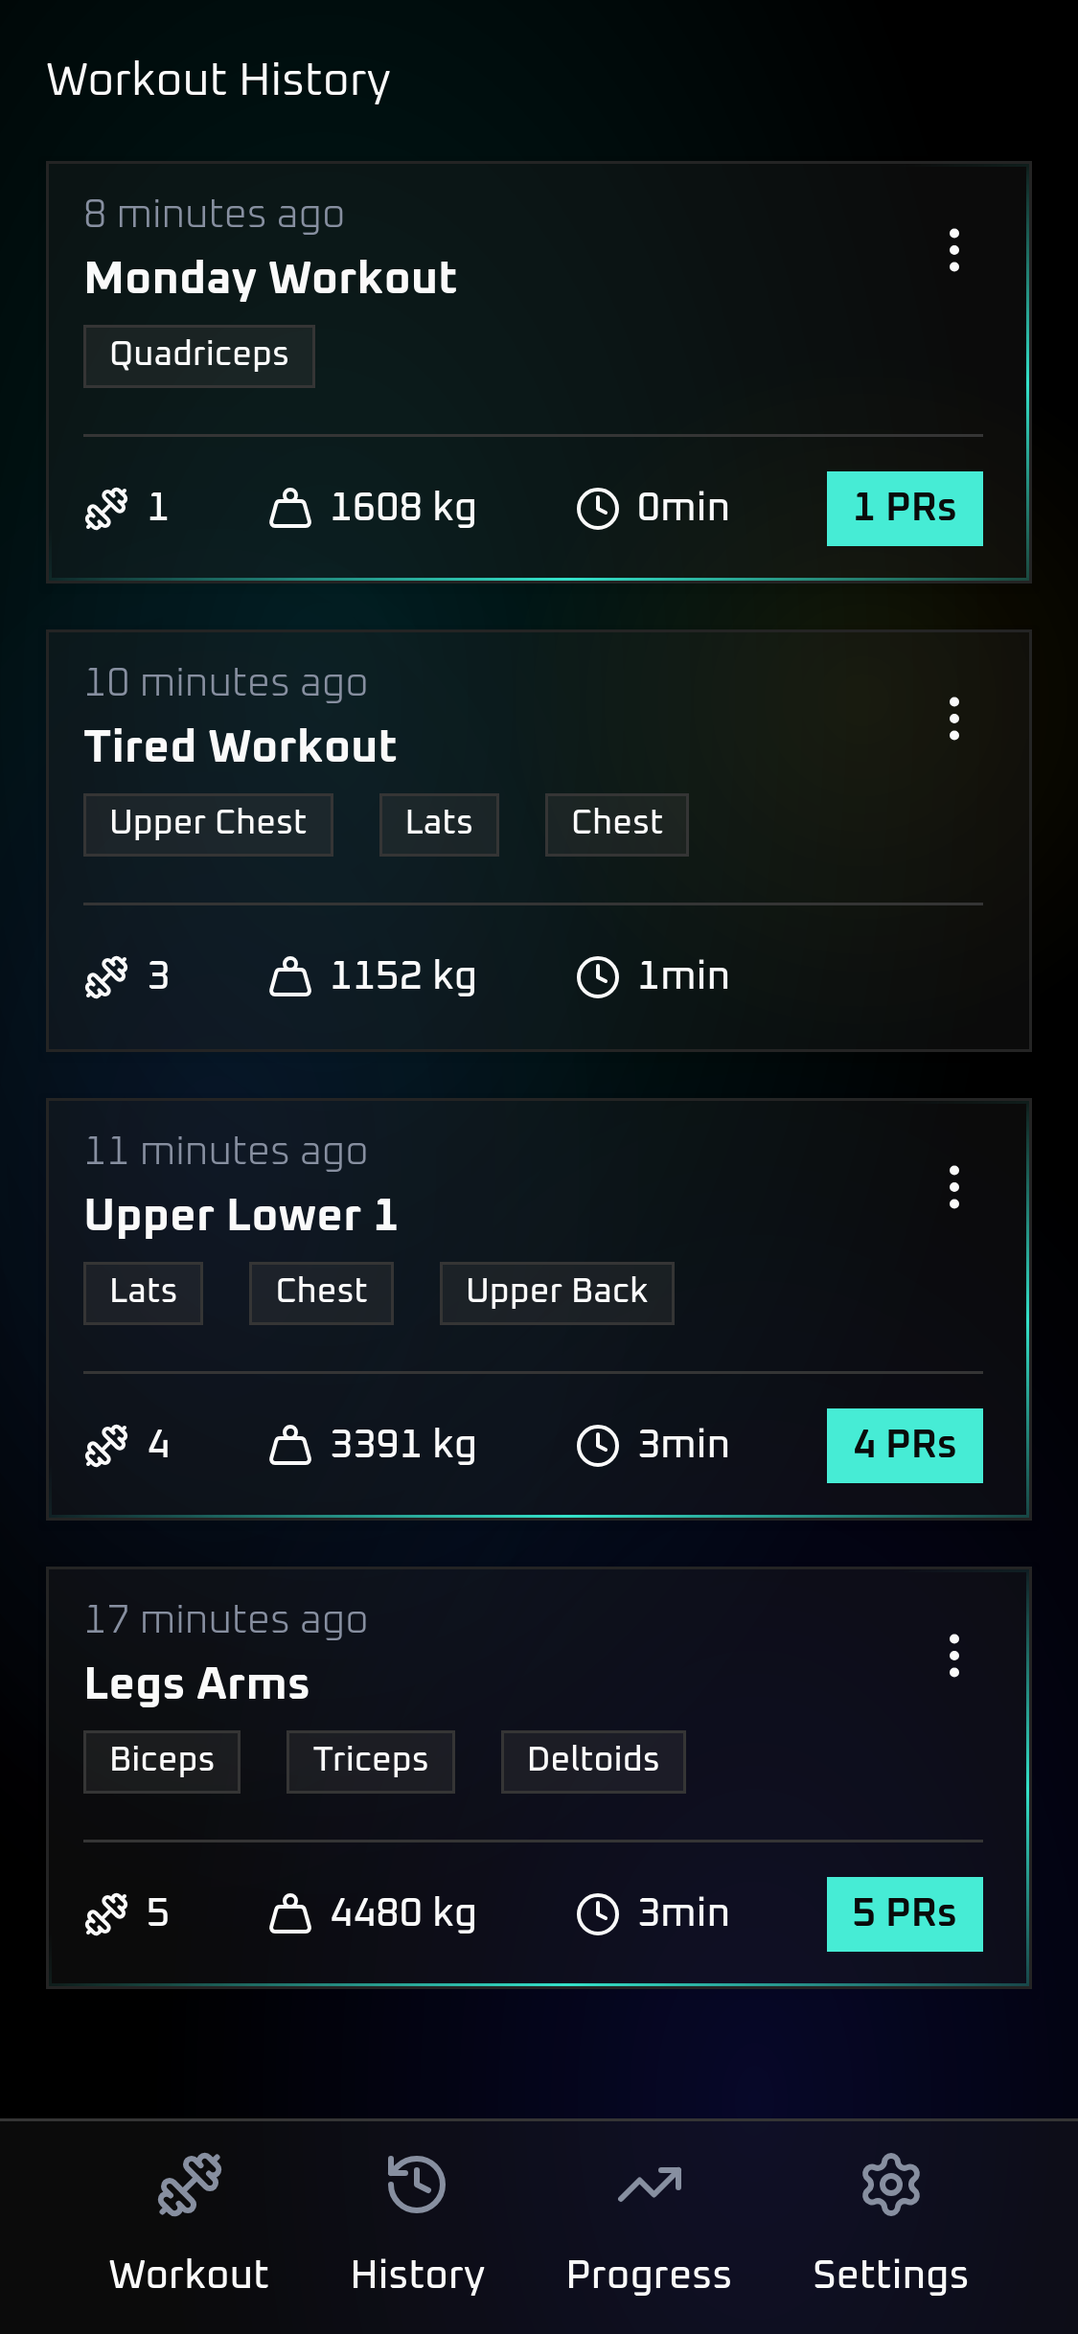
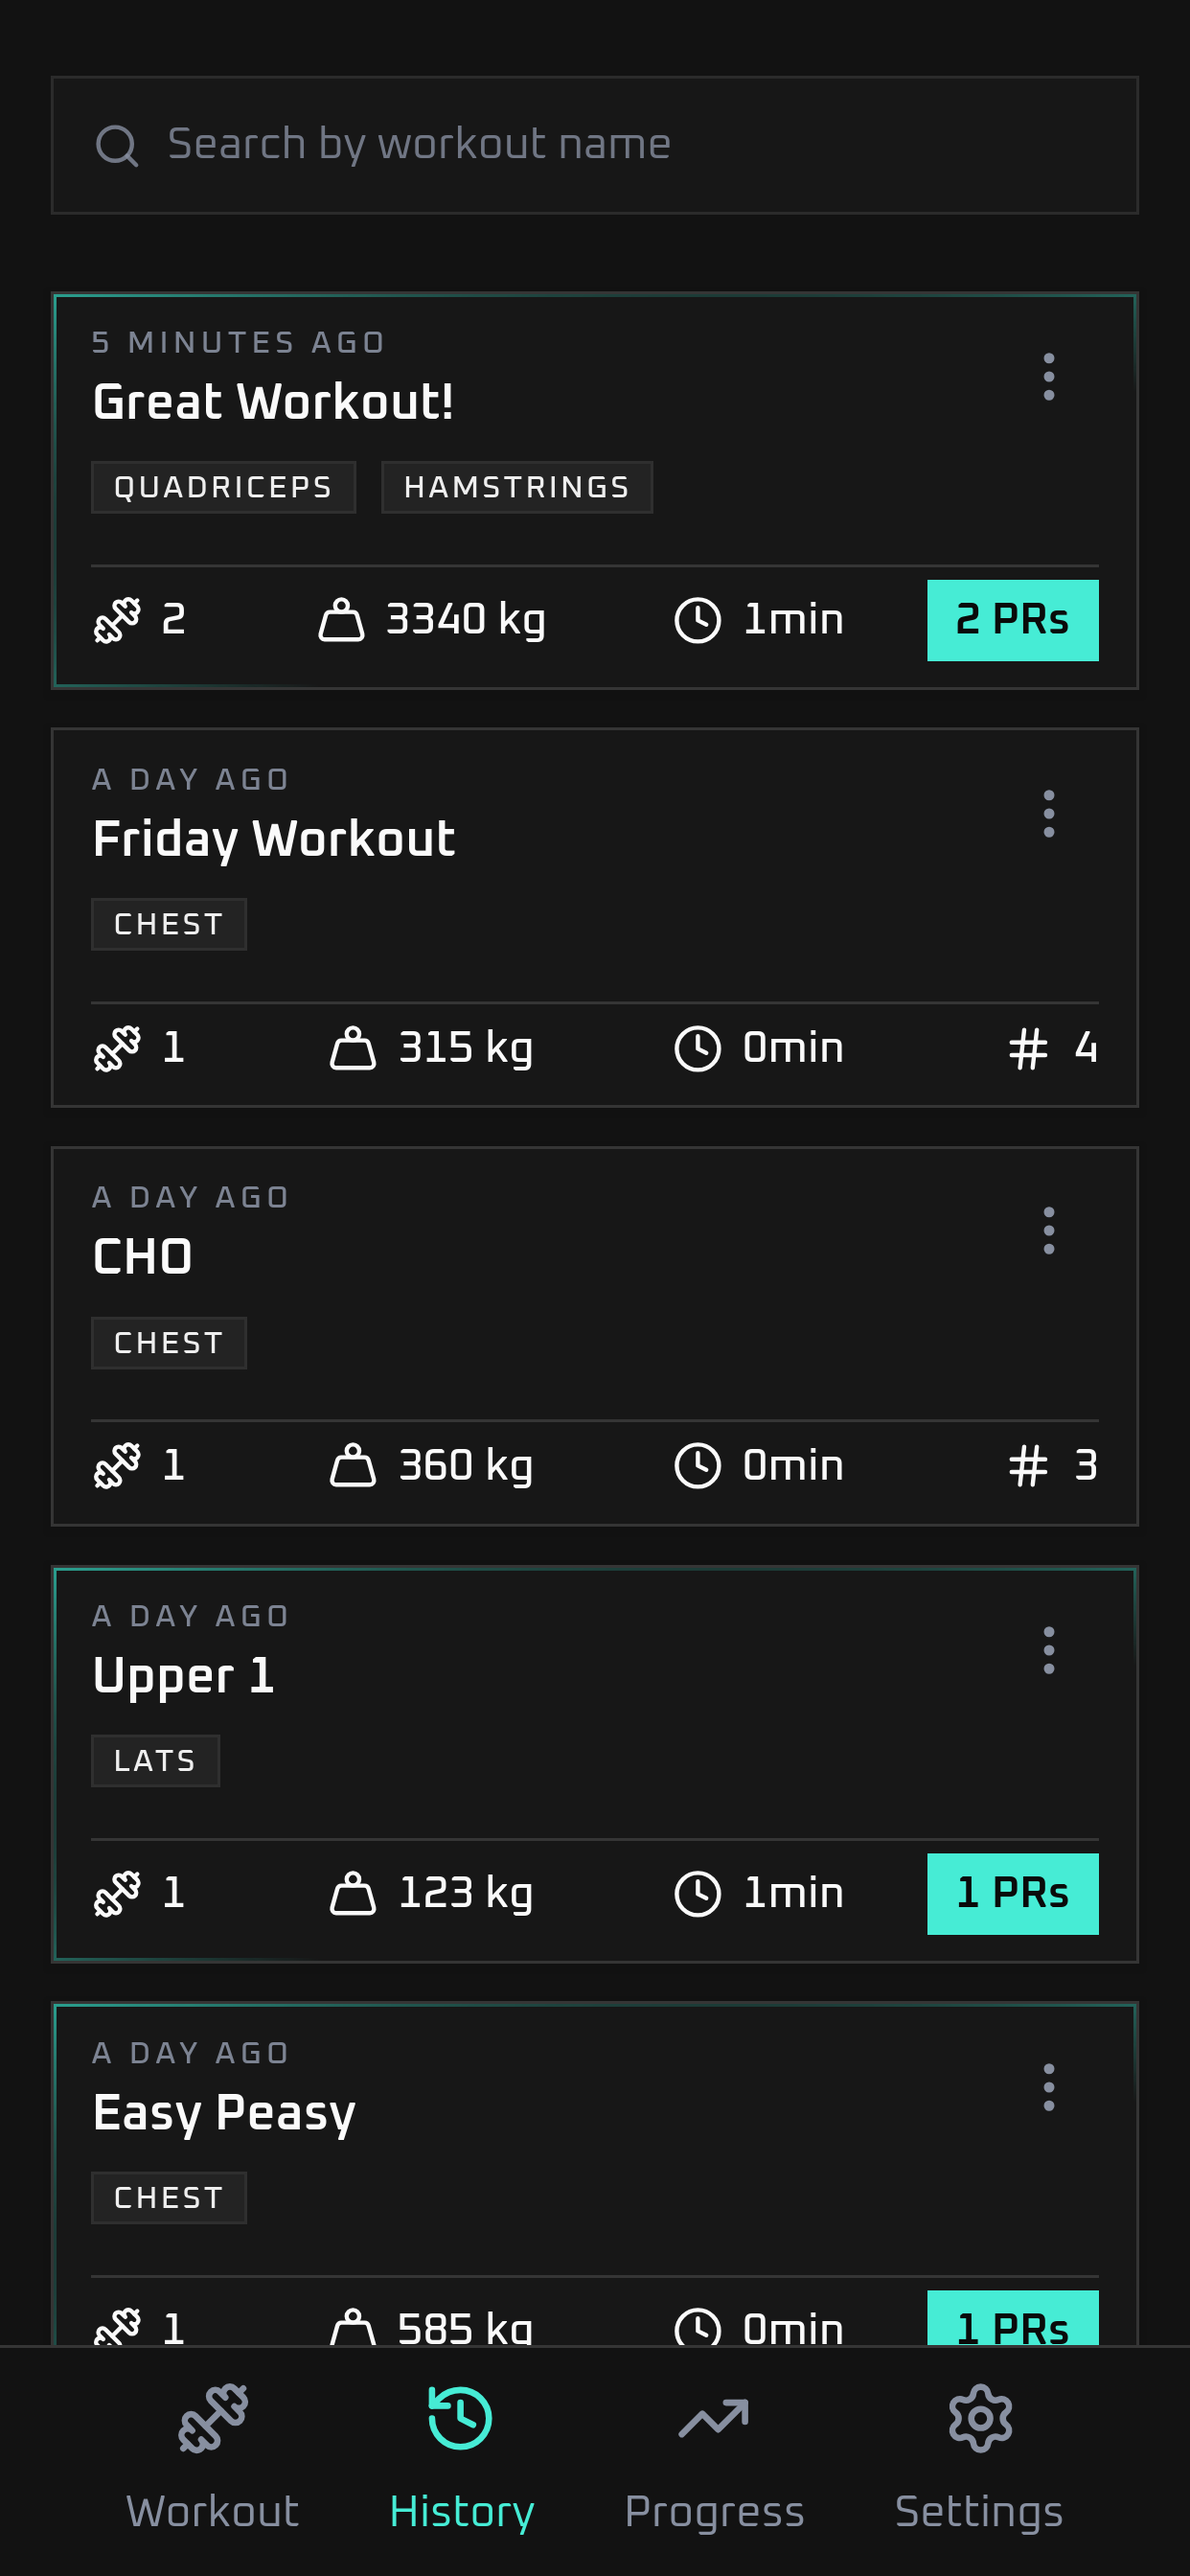
docs: Update README images and tasks

diff --git a/README.md b/README.md
@@ -44,57 +44,72 @@ Swift. In the future, I plan to build a native mobile version of this app.
 
 ### General
 
-- [ ] redesign nav bar component
-- [ ] make a proper dark mode, and have 3 app styles/themes (glass effect looks like slop unfortunately)
+- [x] redesign nav bar component
+- [x] reorganise file structure
+- [x] add modals
+    - [x] submitting workout
+    - [x] deleting
+- [x] add toast notifications
+- [x] fix destructive colour, not bright enough
+- [x] adjust primary colour for light mode
+- [ ] add suspense/loading state to workout list and forms
+- [x] make a proper dark mode, and have 3 app styles/themes (glass effect looks like slop unfortunately)
+    - [ ] fix exercise name input having a margin/padding
+    - [ ] fix borders not showing on dark mode
+    - [ ] fix colours looking off for bg and grey
+- [ ] learn type safe error handling
+- [x] run react doctor
+- [ ] implement auth
 
 ### Create Workout Page
 
 - [x] fix stopwatch not resuming progress
 - [x] implement react hook form instead of state
-  - [x] fix validation with RHF
-    - [x] fix reps validation error not dissappearing until submit
-  - [x] fix not loading previous data in edit mode
-    - [x] fix exercises loading in reverse order
-  - [x] fix autoscroll behaviour not working
-    - need to get the id since it doesnt exist yet, cant use same var
-    - [x] fix not smooth scrolling
-  - [x] implement deleting sets/exercises
-    - [x] add toggle for edit mode
-    - [x] need to make buttons look like actual buttons, recent look like a heading
-    - [x] make the add exercise button toggle to delete exercise in edit mode
-    - [x] checkbox state needs to persist between changing edit mode
-    - [ ] deleting a set during edit and re-adding it makes it show up again
-    - [x] deleting a set removed everything after it, not just that set
-    - [ ] implement undo delete
+    - [x] fix validation with RHF
+        - [x] fix reps validation error not dissappearing until submit
+    - [x] fix not loading previous data in edit mode
+        - [x] fix exercises loading in reverse order
+    - [x] fix autoscroll behaviour not working
+        - need to get the id since it doesnt exist yet, cant use same var
+        - [x] fix not smooth scrolling
+    - [x] implement deleting sets/exercises
+        - [x] add toggle for edit mode
+        - [x] need to make buttons look like actual buttons, recent look like a heading
+        - [x] make the add exercise button toggle to delete exercise in edit mode
+        - [x] checkbox state needs to persist between changing edit mode
+        - [ ] deleting a set during edit and re-adding it makes it show up again
+        - [x] deleting a set removed everything after it, not just that set
+        - [ ] implement undo delete
 - [x] print validation errors in the ui
-  - [x] fix no sets error doesn't go away when adding set
+    - [x] fix no sets error doesn't go away when adding set
 - [x] suggestions for exercises
-  - [x] get exercises from an api
-  - [x] show results that are actually similar/matching to the input
-  - [x] fix exercises names not loading for edit
-  - [x] fix choosing exercise from the list makes the set inputs nan
-  - [x] make function to turn exercises from api into title case
-  - [ ] cache api results to prevent repeat api requests
-    - [ ] clear suggestions (global exercises that have no instances)
-      - only keep globals if they have instances, cache suggestion results instead
-  - [x] make a search button instead of auto calling the api
-  - [x] add default exercises (common ones)
-  - [x] show loading state for fetching exercises from db and api
-  - [x] show error for too many requests as a toast
-  - [x] fix Error fetching from API: TypeError: groupTwo is not iterable
-  - [x] extract the toast messages into a toastMessages.ts
-  - [ ] learn how to use this in prod without showing api key
-- [x] make exercise form appear after typing the name
+    - [x] get exercises from an api
+    - [x] show results that are actually similar/matching to the input
+    - [x] fix exercises names not loading for edit
+    - [x] fix choosing exercise from the list makes the set inputs nan
+    - [x] make function to turn exercises from api into title case
+    - [ ] cache api results to prevent repeat api requests
+        - [ ] clear suggestions (global exercises that have no instances)
+            - only keep globals if they have instances, cache suggestion results instead
+    - [x] make a search button instead of auto calling the api
+    - [x] add default exercises (common ones)
+    - [x] show loading state for fetching exercises from db and api
+    - [x] show error for too many requests as a toast
+    - [x] fix Error fetching from API: TypeError: groupTwo is not iterable
+    - [x] extract the toast messages into a toastMessages.ts
+-  [x] make exercise form appear after typing the name
+    -  [x] fix exercise bottom bar not showing when loading a workout with a single exercise
 - [x] always add empty set or exercise if last one is deleted
 - [x] remove workout title input, only prompt workout title on submit
 - [ ] implement preset feature
-  - [ ] add option to save an existing workout as a preset
-  - [ ] add ability to keep rep and weights or use blank
+    - [ ] add option to save an existing workout as a preset
+    - [ ] add ability to keep rep and weights or use blank
 - [ ] implement saving incomplete workout draft
 - [ ] implement supersetting feature
 - [x] add exercise indicator to show how many exercises in the workout
-  - [x] tap to select exercises from a list, to scroll to that one
+    - [x] tap to select exercises from a list, to scroll to that one
 - [ ] history icon -> opens dialog to show last 5 sets of that exercise
+- [x] fix dropdown not matching width of input
 
 ### History
 
@@ -103,64 +118,34 @@ Swift. In the future, I plan to build a native mobile version of this app.
 - [ ] make seperate workout view page for past workouts
 - [x] fix card when no prs
 - [x] implement muscle groups to display on the workout card
-  - [x] workouts need to save muscle groups info
-  - [x] update prisma schema to include muscleGroups
-  - [x] load muscle group for each exercise
+    - [x] workouts need to save muscle groups info
+    - [x] update prisma schema to include muscleGroups
+    - [x] load muscle group for each exercise
 - [x] calculate prs
-  - Weighted exercises
-    -Heaviest weight: weight
-    - Highest set volume: weight \* reps
-  - Bodyweight exercises
-    - Highest reps: reps
+    - Weighted exercises
+        -Heaviest weight: weight
+        - Highest set volume: weight * reps
+    - Bodyweight exercises
+        - Highest reps: reps
+    - [ ] dont make it a pr if its the first set
 - [x] calculate prs on submission instead of history fetch, to allow for pagination and faster loading
 - [x] calculate total volume lifted
-- [ ] calculate total exercises in workout
-- [ ] add search bar
+- [x] calculate total exercises in workout
+ - [x] add search bar
+    - [ ] make it expand from button
+    - [ ] or opens modal?
+    - [ ] search workouts by title or muscle group or exercise. use a dropdown to select type
 - [ ] filter workouts, by:
-  - [ ] date ranges
-  - [ ] workout type/presets
-  - [ ] workouts containing specific exercise/muscle group
-- [ ] add pagination
-- [ ] clear suggestions (global exercises that have no instances)
-  - only keep globals if they have instances, cache suggestion results instead
-- [x] add modals
-  - [ ] creating workout/loading draft
-  - [x] submitting workout
-  - [x] deleting
-- [x] add toast notifications
-  - [ ] implement async toast notification for submitting workout
-- [ ] learn type safe error handling
-
-### History
-
-- [x] load save workouts from db
-- [x] edit workouts using the same form
-- [ ] make seperate workout view page for past workouts
-- [x] fix card when no prs
-- [x] implement muscle groups to display on the workout card
-  - [x] workouts need to save muscle groups info
-  - [x] update prisma schema to include muscleGroups
-  - [x] load muscle group for each exercise
-- [x] calculate prs
-  - Weighted exercises
-    -Heaviest weight: weight
-    - Highest set volume: weight \* reps
-  - Bodyweight exercises
-    - Highest reps: reps
-- [x] calculate prs on submission instead of history fetch, to allow for pagination and faster loading
-- [x] calculate total volume lifted
-- [ ] calculate total exercises in workout
-- [ ] add search bar
-- [ ] filter workouts, by:
-  - [ ] date ranges
-  - [ ] workout type/presets
-  - [ ] workouts containing specific exercise/muscle group
-- [ ] add pagination
+    - [ ] date ranges
+    - [ ] workout type/presets
+    - [ ] workouts containing specific exercise/muscle group
+- [x] add pagination
+- [ ] fix cant tab through each card
 
 ### Progress
 
 - [ ] graphs to show progression over time
-  - [ ] chart.js?
+    - [ ] chart.js?
 - [ ] [filter stats](workout-tracker.md#stats-to-calculate)
 - [ ] frequency heatmap to show sessions per time period
 - [ ] weekly summary
